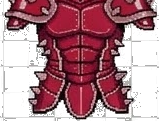
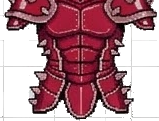
Resize placeholder body to match real armor scale; fix chroma-key fringe
The placeholder body was 32x48 - a leftover from before real armor art
existed - and made the 90-160px real Gemini pieces look absurdly
oversized once equipped. Rebuilt it at 200x340, proportioned to actually
sit under Head/Chest/Legs gear, with matching attachment anchors and
retuned scale/offset per slot. Also re-scaled the procedural placeholder
items (cape, pauldrons, sword, shield) to match.

Re-sliced the tier sheet with a boundary-erosion pass on the chroma-key
mask to clean up a faint checkerboard fringe left by JPEG compression at
each piece's edges.

Chest is scaled up and shifted higher, and the helm lowered, to close the
neck gap and read as one cohesive silhouette rather than three floating
pieces - tuned by iterating screenshots directly against the running demo.

Claude-Session: https://claude.ai/code/session_01SzPNaGhUQbcKZM7kgo3bhd

diff --git a/src/rig/placeholderBody.ts b/src/rig/placeholderBody.ts
@@ -4,52 +4,73 @@ export const BODY_ANIM_KEY = "idle";
 export const BODY_TEXTURE_KEYS = ["body_idle_0", "body_idle_1"];
 
 /**
- * Draws a bare-bones humanoid silhouette in code and registers a 2-frame
- * "idle" animation from it. This exists purely so the rig demo has
- * *something* to equip gear onto without depending on external art —
- * swap it for a real animated body spritesheet when one exists, and add a
- * matching AttachmentTable entry per real animation (see
- * data/humanoidAttachments.ts).
+ * Draws a humanoid silhouette in code, sized to actually match the scale
+ * of the real armor pieces in public/assets/armor/ (roughly 90-160px wide
+ * per piece), and registers a 2-frame "idle" animation from it. This is
+ * still not real character art — swap it for a real animated body
+ * spritesheet when one exists, and add a matching AttachmentTable entry
+ * per real animation (see data/humanoidAttachments.ts). But unlike the
+ * first pass at this placeholder, its proportions are deliberately built
+ * to fit under the actual equipped gear instead of being an arbitrary
+ * tiny stand-in.
  */
 export function createPlaceholderBody(scene: Phaser.Scene): void {
-  const w = 32;
-  const h = 48;
+  const w = 200;
+  const h = 340;
   const g = scene.add.graphics();
 
-  const skin = 0xe8b98a;
+  const skin = 0xe0a878;
+  const skinDark = 0xc08858;
   const tunic = 0x4a6fa5;
   const tunicDark = 0x395580;
-  const pants = 0x3a3a3a;
+  const pants = 0x4a4a52;
+  const pantsDark = 0x35353c;
+  const hair = 0x3a2a1e;
 
   const draw = (bob: number) => {
     g.clear();
 
     // legs (planted, unaffected by breathing bob)
     g.fillStyle(pants, 1);
-    g.fillRect(11, 34, 4, 13);
-    g.fillRect(17, 34, 4, 13);
+    g.fillRoundedRect(50, 220, 42, 120, 8);
+    g.fillRoundedRect(108, 220, 42, 120, 8);
+    g.fillStyle(pantsDark, 1);
+    g.fillRoundedRect(50, 220, 12, 120, 6);
+    g.fillRoundedRect(108, 220, 12, 120, 6);
 
     // torso
     g.fillStyle(tunic, 1);
-    g.fillRect(9, 14 + bob, 14, 20);
+    g.fillRoundedRect(40, 100 + bob, 120, 122, 14);
     g.fillStyle(tunicDark, 1);
-    g.fillRect(9, 14 + bob, 3, 20);
+    g.fillRoundedRect(40, 100 + bob, 18, 122, 10);
 
     // arms
     g.fillStyle(skin, 1);
-    g.fillRect(5, 16 + bob, 4, 14);
-    g.fillRect(23, 16 + bob, 4, 14);
+    g.fillRoundedRect(10, 108 + bob, 30, 128, 12);
+    g.fillRoundedRect(160, 108 + bob, 30, 128, 12);
+    g.fillStyle(skinDark, 1);
+    g.fillRoundedRect(10, 108 + bob, 30, 14, 8);
+    g.fillRoundedRect(160, 108 + bob, 30, 14, 8);
+
+    // neck
+    g.fillStyle(skin, 1);
+    g.fillRect(85, 92 + bob, 30, 20);
 
     // head
     g.fillStyle(skin, 1);
-    g.fillCircle(16, 9 + bob, 7);
+    g.fillCircle(100, 55 + bob, 42);
+    g.fillStyle(hair, 1);
+    g.fillRoundedRect(58, 14 + bob, 84, 26, { tl: 20, tr: 20, bl: 0, br: 0 });
   };
 
-  BODY_TEXTURE_KEYS.forEach((key, i) => {
-    draw(-i); // frame 0: bob=0, frame 1: bob=-1 (shift up one px)
+  BODY_TEXTURE_KEYS.forEach((key) => {
     if (scene.textures.exists(key)) scene.textures.remove(key);
-    g.generateTexture(key, w, h);
   });
+
+  draw(0);
+  g.generateTexture(BODY_TEXTURE_KEYS[0], w, h);
+  draw(-4);
+  g.generateTexture(BODY_TEXTURE_KEYS[1], w, h);
 
   g.destroy();
 

diff --git a/src/rig/data/humanoidAttachments.ts b/src/rig/data/humanoidAttachments.ts
@@ -3,9 +3,10 @@ import type { AttachmentTable } from "../types";
 
 /**
  * Attachment anchors for the placeholder humanoid body's "idle" animation
- * (see placeholderBody.ts). Two frames: a resting pose and a 1px "breathe up"
- * pose. Array index must match the frame order the "idle" Phaser animation
- * was created with.
+ * (see placeholderBody.ts, a 200x340 canvas sized to actually match the
+ * real armor pieces in public/assets/armor/). Two frames: a resting pose
+ * and a "breathe up" pose. Array index must match the frame order the
+ * "idle" Phaser animation was created with.
  *
  * All coordinates are in body-local pixels, authored for the right-facing
  * pose, measured from the body sprite's origin (bottom-center). Negative Y
@@ -15,24 +16,24 @@ import type { AttachmentTable } from "../types";
 export const humanoidAttachments: AttachmentTable = {
   idle: [
     {
-      [EquipmentSlot.Feet]: { x: 0, y: -1 },
-      [EquipmentSlot.Legs]: { x: 0, y: -14 },
-      [EquipmentSlot.Chest]: { x: 0, y: -26 },
-      [EquipmentSlot.Shoulders]: { x: 0, y: -31 },
-      [EquipmentSlot.Cape]: { x: 0, y: -32 },
-      [EquipmentSlot.Head]: { x: 0, y: -39 },
-      [EquipmentSlot.MainHand]: { x: 9, y: -20 },
-      [EquipmentSlot.OffHand]: { x: -9, y: -20 },
+      [EquipmentSlot.Feet]: { x: 0, y: -8 },
+      [EquipmentSlot.Legs]: { x: 0, y: -115 },
+      [EquipmentSlot.Chest]: { x: 0, y: -175 },
+      [EquipmentSlot.Shoulders]: { x: 0, y: -222 },
+      [EquipmentSlot.Cape]: { x: 0, y: -225 },
+      [EquipmentSlot.Head]: { x: 0, y: -285 },
+      [EquipmentSlot.MainHand]: { x: 78, y: -170 },
+      [EquipmentSlot.OffHand]: { x: -78, y: -170 },
     },
     {
-      [EquipmentSlot.Feet]: { x: 0, y: -1 },
-      [EquipmentSlot.Legs]: { x: 0, y: -14 },
-      [EquipmentSlot.Chest]: { x: 0, y: -27 },
-      [EquipmentSlot.Shoulders]: { x: 0, y: -32 },
-      [EquipmentSlot.Cape]: { x: 0, y: -33 },
-      [EquipmentSlot.Head]: { x: 0, y: -40 },
-      [EquipmentSlot.MainHand]: { x: 9, y: -21 },
-      [EquipmentSlot.OffHand]: { x: -9, y: -21 },
+      [EquipmentSlot.Feet]: { x: 0, y: -8 },
+      [EquipmentSlot.Legs]: { x: 0, y: -115 },
+      [EquipmentSlot.Chest]: { x: 0, y: -179 },
+      [EquipmentSlot.Shoulders]: { x: 0, y: -226 },
+      [EquipmentSlot.Cape]: { x: 0, y: -229 },
+      [EquipmentSlot.Head]: { x: 0, y: -289 },
+      [EquipmentSlot.MainHand]: { x: 78, y: -174 },
+      [EquipmentSlot.OffHand]: { x: -78, y: -174 },
     },
   ],
 };

diff --git a/src/rig/placeholderArt.ts b/src/rig/placeholderArt.ts
@@ -134,62 +134,74 @@ export function createPlaceholderArt(scene: Phaser.Scene): EquipmentItem[] {
     g.fillRect(6, 3, 1, 10);
   });
 
+  // These textures are all drawn tiny (16-26px); scale them up to match
+  // the placeholder body's much larger canvas (see placeholderBody.ts).
+  const SCALE = 6.5;
+
   return [
     {
       id: "guard_chest",
       name: "Guard Chestplate",
       slot: EquipmentSlot.Chest,
       textureKey: "guard_chest",
-      offsetY: 1,
+      scale: SCALE,
+      offsetY: 6,
     },
     {
       id: "berserker_chest",
       name: "Berserker Plate",
       slot: EquipmentSlot.Chest,
       textureKey: "berserker_chest",
-      offsetY: 2,
+      scale: SCALE,
+      offsetY: 13,
     },
     {
       id: "guard_helm",
       name: "Guard Helm",
       slot: EquipmentSlot.Head,
       textureKey: "guard_helm",
-      offsetY: -1,
+      scale: SCALE,
+      offsetY: -6,
     },
     {
       id: "spiked_helm",
       name: "Spiked Warhelm",
       slot: EquipmentSlot.Head,
       textureKey: "spiked_helm",
-      offsetY: -2,
+      scale: SCALE,
+      offsetY: -13,
     },
     {
       id: "tattered_cape",
       name: "Tattered Cape",
       slot: EquipmentSlot.Cape,
       textureKey: "tattered_cape",
+      scale: SCALE,
       originY: 0,
-      offsetY: -6,
+      offsetY: -39,
     },
     {
       id: "steel_pauldrons",
       name: "Steel Pauldrons",
       slot: EquipmentSlot.Shoulders,
       textureKey: "steel_pauldrons",
+      scale: SCALE,
     },
     {
       id: "iron_sword",
       name: "Iron Sword",
       slot: EquipmentSlot.MainHand,
       textureKey: "iron_sword",
+      scale: SCALE,
       originY: 0.85,
-      offsetX: 1,
+      offsetX: 6,
     },
     {
       id: "wood_shield",
       name: "Wood Shield",
       slot: EquipmentSlot.OffHand,
       textureKey: "wood_shield",
+      scale: SCALE,
     },
   ];
 }

diff --git a/src/data/tieredArmor.ts b/src/data/tieredArmor.ts
@@ -14,8 +14,8 @@ import type { EquipmentItem } from "../rig/types";
  * piece" case called out in ARMOR_PIPELINE.md.
  *
  * Scale/origin here are tuned against the placeholder body in
- * placeholderBody.ts, which is much smaller than these detailed pieces
- * were actually drawn for. When a real body sprite replaces the
+ * placeholderBody.ts, which is sized to roughly match these pieces but is
+ * still not real character art. When a real body sprite replaces the
  * placeholder, these will need re-tuning to match its actual proportions.
  */
 
@@ -37,7 +37,8 @@ const TIER_LABELS: Record<(typeof TIERS)[number], string> = {
   royal: "Royal",
 };
 
-const SCALE = 0.11;
+const SCALE = 1.0;
+const CHEST_SCALE = 1.3;
 
 export function preloadTieredArmor(scene: Phaser.Scene): void {
   for (const tier of TIERS) {
@@ -59,7 +60,7 @@ export function createTieredArmorItems(): EquipmentItem[] {
       originX: 0.5,
       originY: 0.82,
       scale: SCALE,
-      offsetY: -3,
+      offsetY: 40,
     });
     items.push({
       id: `${tier}_chest`,
@@ -68,8 +69,8 @@ export function createTieredArmorItems(): EquipmentItem[] {
       textureKey: `${tier}_chest`,
       originX: 0.5,
       originY: 0.35,
-      scale: SCALE,
-      offsetY: 3,
+      scale: CHEST_SCALE,
+      offsetY: -20,
     });
     items.push({
       id: `${tier}_legs`,
@@ -79,7 +80,7 @@ export function createTieredArmorItems(): EquipmentItem[] {
       originX: 0.5,
       originY: 0.08,
       scale: SCALE,
-      offsetY: -3,
+      offsetY: -14,
     });
   }
   return items;

diff --git a/src/scenes/RigDemoScene.ts b/src/scenes/RigDemoScene.ts
@@ -38,12 +38,12 @@ export class RigDemoScene extends Phaser.Scene {
     this.rig = new CharacterRig(
       this,
       this.scale.width / 2,
-      this.scale.height - 40,
+      this.scale.height - 60,
       BODY_TEXTURE_KEYS[0],
       humanoidAttachments,
       BODY_ANIM_KEY,
     );
-    this.rig.container.setScale(4);
+    this.rig.container.setScale(1.3);
     this.rig.body.play(BODY_ANIM_KEY);
     this.rig.setAnimation(BODY_ANIM_KEY);
 

diff --git a/src/main.ts b/src/main.ts
@@ -4,8 +4,8 @@ import { RigDemoScene } from "./scenes/RigDemoScene";
 new Phaser.Game({
   type: Phaser.AUTO,
   parent: "game-container",
-  width: 480,
-  height: 480,
+  width: 520,
+  height: 640,
   pixelArt: true,
   backgroundColor: "#3a3f4b",
   scene: [RigDemoScene],

diff --git a/ARMOR_PIPELINE.md b/ARMOR_PIPELINE.md
@@ -38,6 +38,24 @@ mechanism stays verifiable without depending on more external art than
 exists yet. Swap the placeholders out; nothing else about the rig needs to
 change.
 
+The placeholder body (`placeholderBody.ts`) is deliberately sized (a
+200×340 canvas) to actually match the real armor pieces' scale — a second
+pass after the first version was tiny (32×48) and made the real art look
+comically oversized once equipped. It's still not real character art
+(flat-shaded boxes and circles drawn with Phaser Graphics, no proper
+anatomy or style), but its proportions were built to fit under gear rather
+than being an arbitrary stand-in. Expect to re-tune every scale/origin/
+offset in `tieredArmor.ts` again once your actual PixelScape body sprite
+replaces it — "matches this placeholder" and "matches your real body" are
+two different problems, solved the same way (screenshot, adjust, repeat).
+
+One rendering gotcha hit while tuning this: combining a non-integer item
+`scale` with a non-integer container/camera scale (e.g. `0.72 * 1.3 =
+0.936`) produces visible moiré/grid artifacts on finely-detailed pixel art
+under `pixelArt: true` + nearest-neighbor filtering, especially when the
+combined factor lands just *below* 1. Keeping the combined scale at or
+above 1 (prefer whole numbers) made the artifact disappear.
+
 ## Getting art out of Gemini in a shape the rig can use
 
 The tier sheet you generated (Slate/Iron/Umber/Crimson/Twilight/Royal ×
